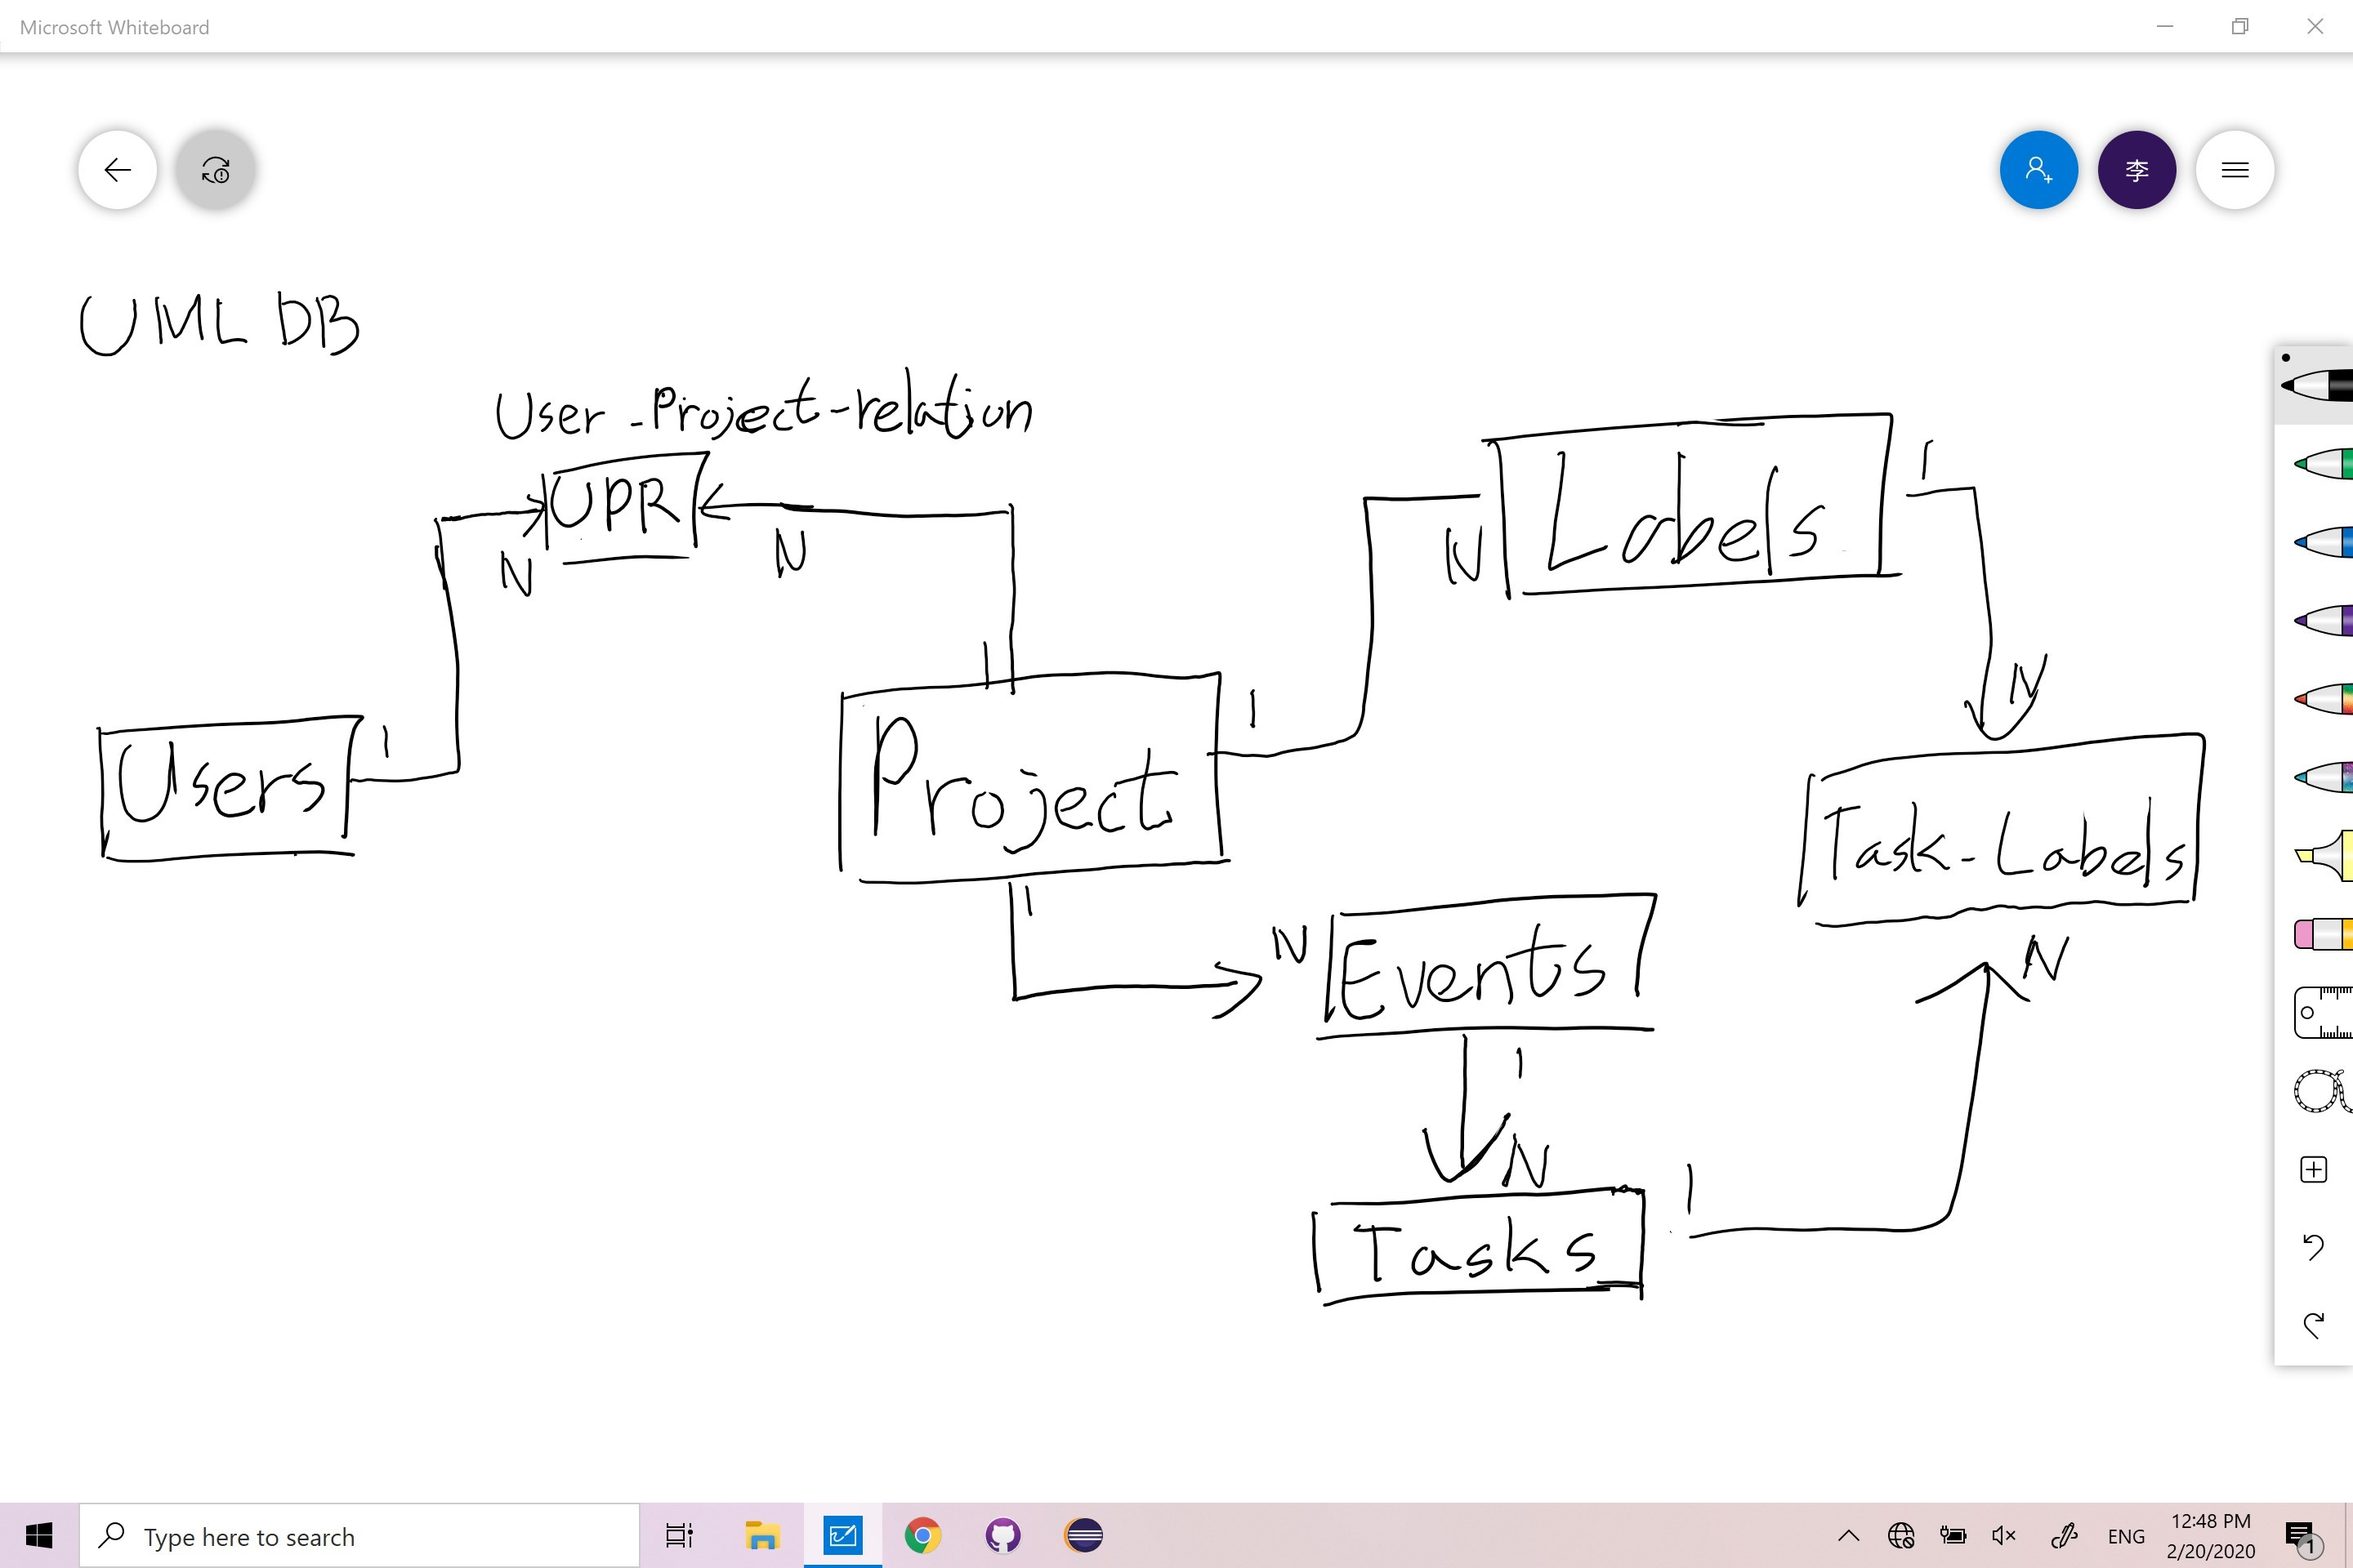
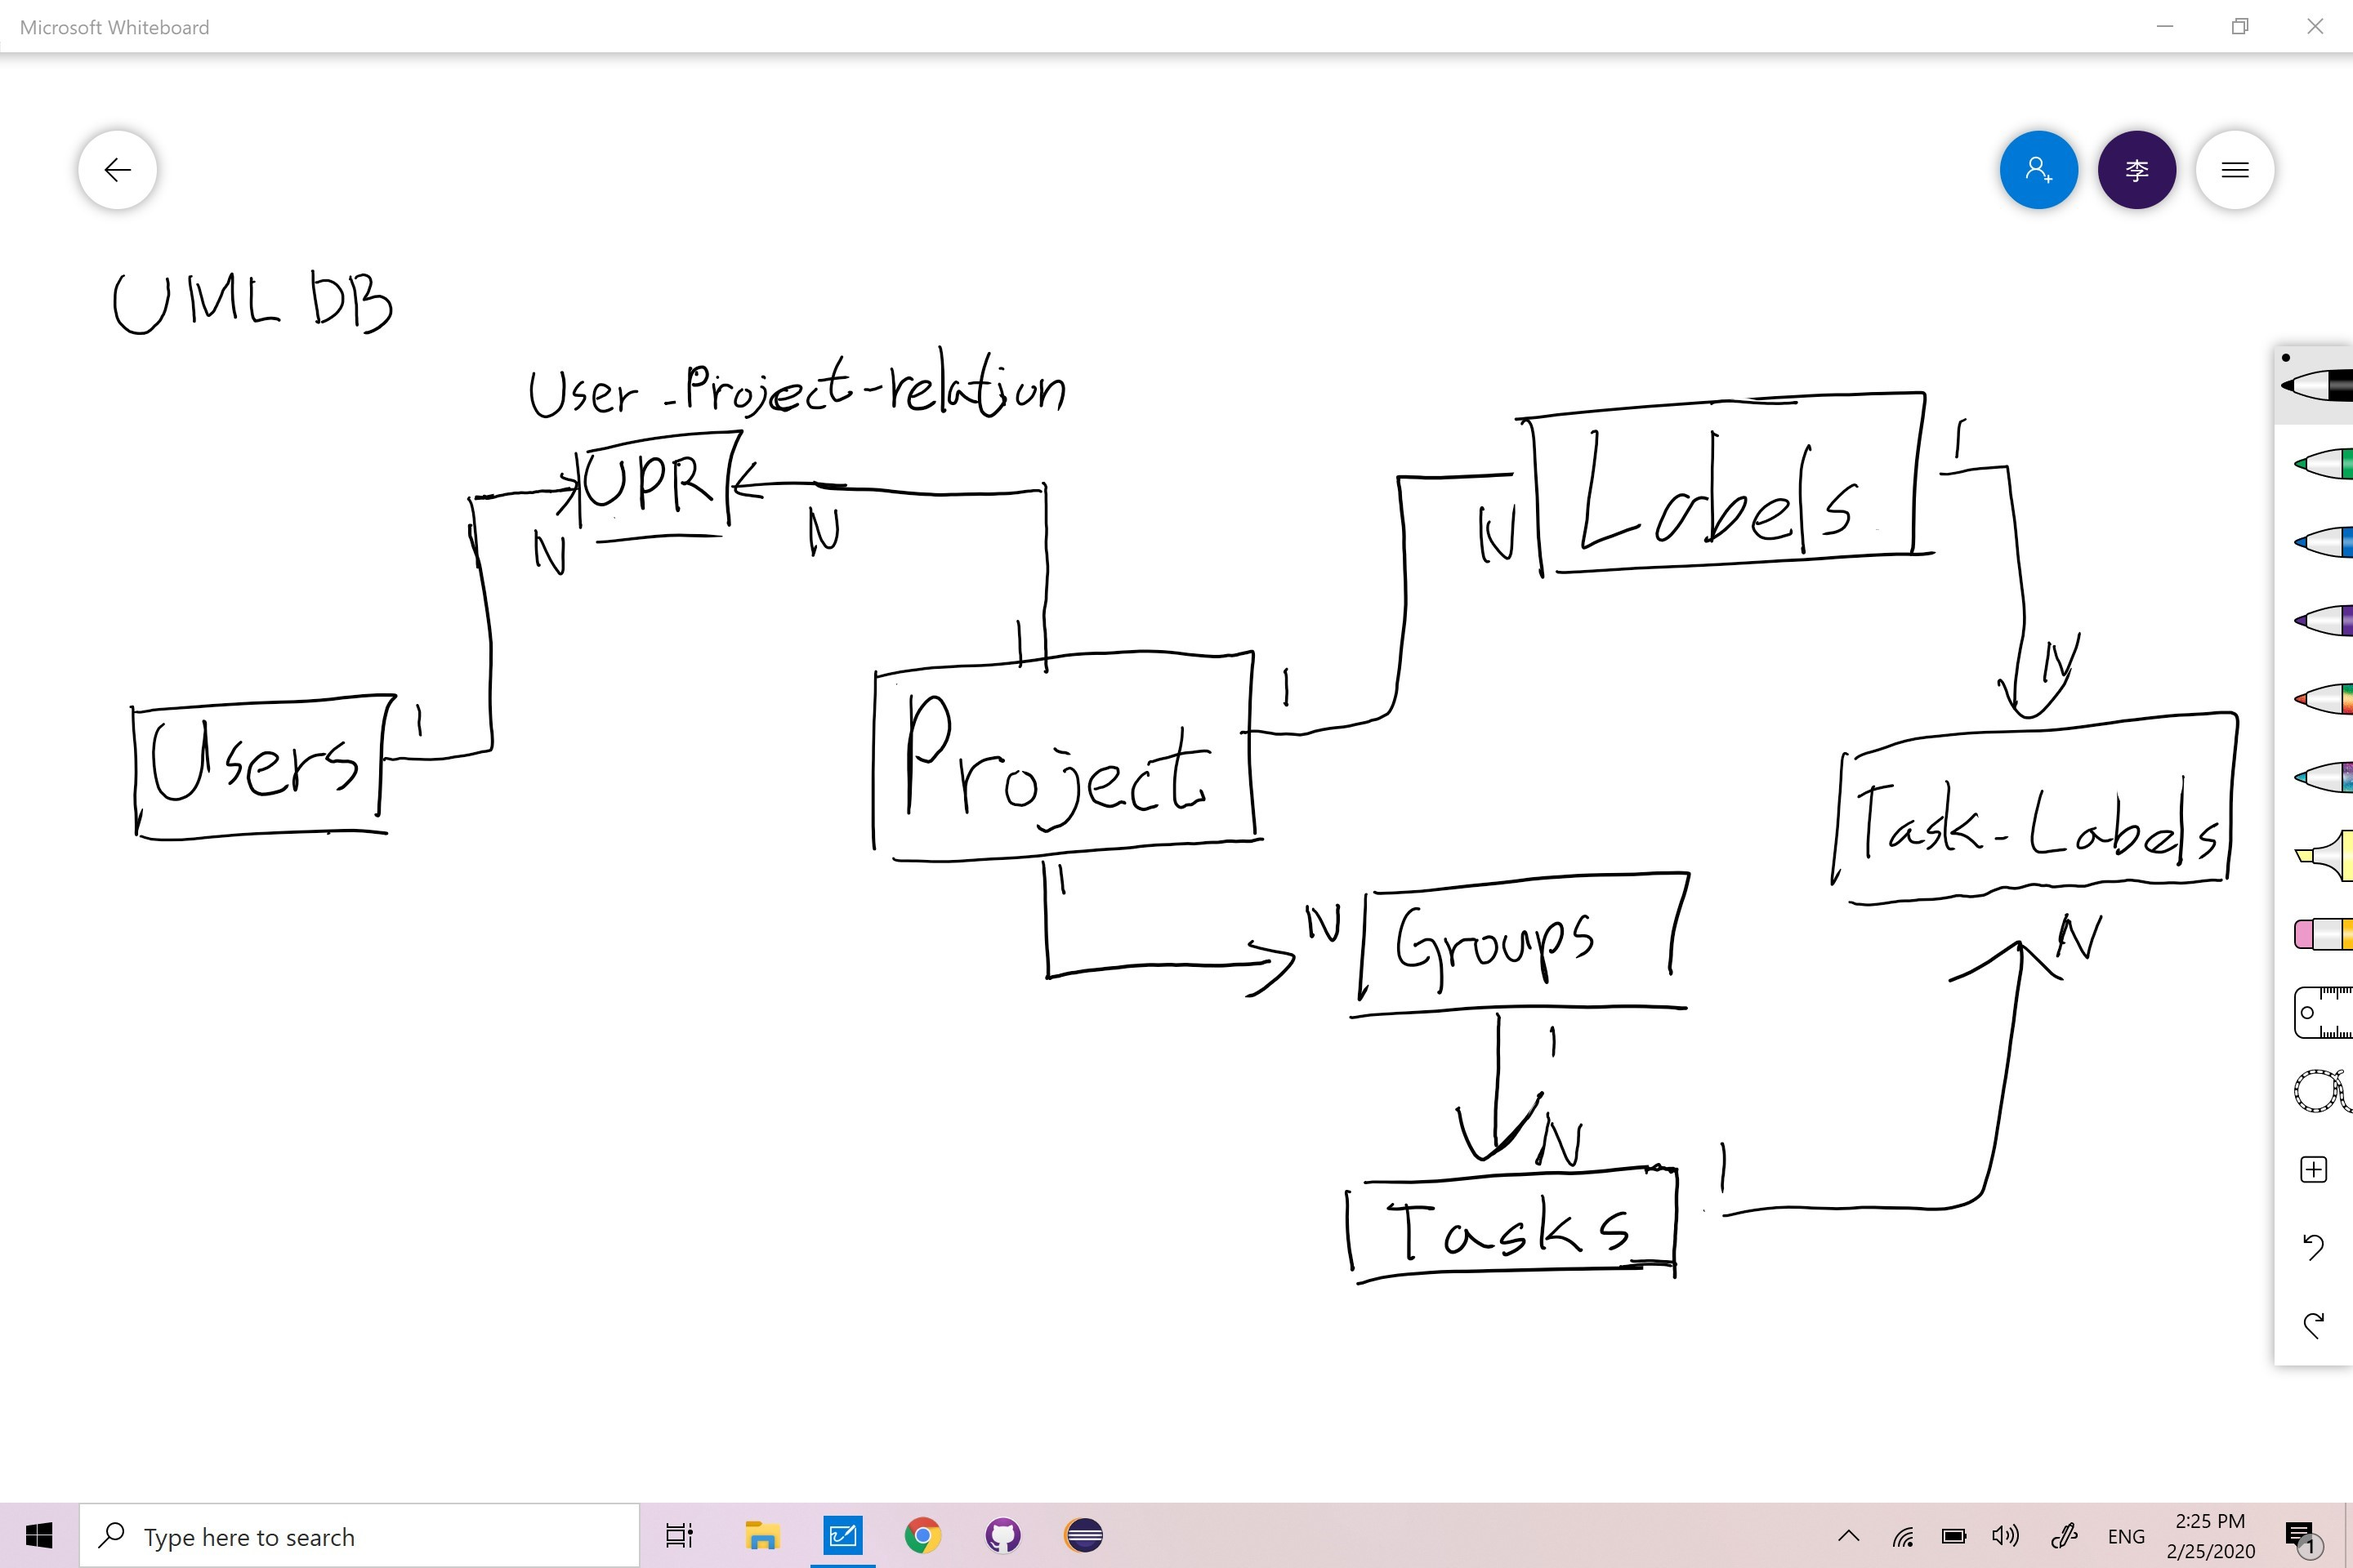
eventsからgroupsにテーブル名前変更、taskのpriorityのデータ型をintに変更し、enumの実装をモデルに追加

diff --git a/myapp/db/schema.rb b/myapp/db/schema.rb
@@ -12,13 +12,13 @@
 
 ActiveRecord::Schema.define(version: 2020_02_20_061320) do
 
-  create_table "events", options: "ENGINE=InnoDB DEFAULT CHARSET=utf8mb4", force: :cascade do |t|
+  create_table "groups", options: "ENGINE=InnoDB DEFAULT CHARSET=utf8mb4", force: :cascade do |t|
     t.string "name", null: false
     t.integer "sort_number", null: false
     t.bigint "project_id", null: false
     t.datetime "created_at", precision: 6, null: false
     t.datetime "updated_at", precision: 6, null: false
-    t.index ["project_id"], name: "index_events_on_project_id"
+    t.index ["project_id"], name: "index_groups_on_project_id"
   end
 
   create_table "labels", options: "ENGINE=InnoDB DEFAULT CHARSET=utf8mb4", force: :cascade do |t|
@@ -47,23 +47,23 @@ ActiveRecord::Schema.define(version: 2020_02_20_061320) do
 
   create_table "tasks", options: "ENGINE=InnoDB DEFAULT CHARSET=utf8mb4", force: :cascade do |t|
     t.string "name", null: false
-    t.string "priority", null: false
+    t.integer "priority", null: false
     t.datetime "end_period_at"
     t.string "creator_name"
     t.string "assignee_name"
     t.text "description"
+    t.bigint "group_id", null: false
+    t.bigint "label_id"
     t.datetime "created_at", precision: 6, null: false
     t.datetime "updated_at", precision: 6, null: false
-    t.bigint "event_id", null: false
-    t.bigint "label_id"
-    t.index ["event_id"], name: "index_tasks_on_event_id"
+    t.index ["group_id"], name: "index_tasks_on_group_id"
     t.index ["label_id"], name: "index_tasks_on_label_id"
   end
 
-  add_foreign_key "events", "projects"
+  add_foreign_key "groups", "projects"
   add_foreign_key "labels", "projects"
   add_foreign_key "task_labels", "labels"
   add_foreign_key "task_labels", "tasks"
-  add_foreign_key "tasks", "events"
+  add_foreign_key "tasks", "groups"
   add_foreign_key "tasks", "labels"
 end

diff --git a/myapp/db/migrate/20200219154848_create_tasks.rb b/myapp/db/migrate/20200219154848_create_tasks.rb
@@ -2,12 +2,12 @@ class CreateTasks < ActiveRecord::Migration[6.0]
   def change
     create_table :tasks do |t|
       t.string :name, null: false
-      t.string :priority, null: false
+      t.integer :priority, null: false
       t.datetime :end_period_at, null: true
       t.string :creator_name, null: true
       t.string :assignee_name, null: true
       t.text :description, null: true
-      t.references :event, foreign_key: true, null: false
+      t.references :group, foreign_key: true, null: false
       t.references :label, foreign_key: true
       t.timestamps
     end

diff --git a/myapp/db/migrate/20200219151525_create_groups.rb b/myapp/db/migrate/20200219151525_create_groups.rb
@@ -1,6 +1,6 @@
-class CreateEvents < ActiveRecord::Migration[6.0]
+class CreateGroups < ActiveRecord::Migration[6.0]
   def change
-    create_table :events do |t|
+    create_table :groups do |t|
       t.string :name, null: false
       t.integer :sort_number, null: false
       t.references :project, foreign_key: true, null: false

diff --git a/myapp/app/models/task.rb b/myapp/app/models/task.rb
@@ -1,2 +1,3 @@
 class Task < ApplicationRecord
+  enum priority: { HIGH: 0, MIDDLE: 1, LOW: 2 }
 end

diff --git a/myapp/app/models/group.rb b/myapp/app/models/group.rb
@@ -1,0 +1,2 @@
+class Group < ApplicationRecord
+end

diff --git a/myapp/README.md b/myapp/README.md
@@ -35,14 +35,14 @@ Mysql2
 ## DB設計
 
 - UML DB
-![UMLDB](https://user-images.githubusercontent.com/18366817/74903227-b4905800-53eb-11ea-86a6-65ac279c9538.jpg)
+![UMLDB](https://user-images.githubusercontent.com/18366817/75217971-082fe680-57dc-11ea-8d04-0241e5618aba.jpg)
 
 - DB詳細情報
 ```
 DROP TABLE IF EXISTS TASK_LABELS;
 DROP TABLE IF EXISTS TASKS;
 DROP TABLE IF EXISTS LABELS;
-DROP TABLE IF EXISTS EVENTS;
+DROP TABLE IF EXISTS GROUPS;
 DROP TABLE IF EXISTS USER_PROJECTS;
 DROP TABLE IF EXISTS USERS;
 DROP TABLE IF EXISTS PROJECTS;
@@ -83,11 +83,11 @@ CREATE TABLE USER_PROJECTS(
   FOREIGN KEY (user_id) REFERENCES USERS(id) ON DELETE CASCADE
 ) ENGINE=InnoDB DEFAULT CHARSET=utf8;
 
--- create EVENTS table
-CREATE TABLE EVENTS(
+-- create GROUPS table
+CREATE TABLE GROUPS(
   id INT NOT NULL AUTO_INCREMENT,
   name VARCHAR(255) NOT NULL,
-  sort_number INT NOT NULL, -- 画面でEVENTSの表示順番を決める
+  sort_number INT NOT NULL, -- 画面でGROUPSの表示順番を決める
   project_id INT NOT NULL,
   created_at DATETIME NOT NULL,
   updated_at DATETIME NOT NULL,
@@ -112,18 +112,18 @@ CREATE TABLE LABELS(
 CREATE TABLE TASKS(
   id INT NOT NULL AUTO_INCREMENT,
   name VARCHAR(255) NOT NULL,
-  priority CHAR(10) NOT NULL, -- Maganement as ENUM(HIGH, MEDIUM, LOW)
+  priority INT NOT NULL, -- Maganement as ENUM(HIGH: 1, MIDDLE: 2, LOW: 3)
   end_period_at DATETIME NULL,
-  event_id INT NOT NULL,
-  creator_name VARCHAR(255) NOT NULL,
-  assignee_name VARCHAR(255) NOT NULL,
-  label_id INT NOT NULL,
+  group_id INT NOT NULL,
+  creator_name VARCHAR(255) NULL,
+  assignee_name VARCHAR(255) NULL,
+  label_id INT NULL,
   description TEXT NULL,
   created_at DATETIME NOT NULL,
   updated_at DATETIME NOT NULL,
   PRIMARY KEY (id),
   UNIQUE(id),
-  FOREIGN KEY (event_id) REFERENCES EVENTS (id) ON DELETE RESTRICT ON UPDATE CASCADE,
+  FOREIGN KEY (group_id) REFERENCES GROUPS (id) ON DELETE RESTRICT ON UPDATE CASCADE,
   FOREIGN KEY (label_id) REFERENCES LABELS (id) ON DELETE RESTRICT ON UPDATE CASCADE
 ) ENGINE=InnoDB DEFAULT CHARSET=utf8;
 
@@ -137,4 +137,5 @@ CREATE TABLE TASK_LABELS(
   FOREIGN KEY (task_id) REFERENCES TASKS(id) ON DELETE CASCADE,
   FOREIGN KEY (label_id) REFERENCES LABELS(id) ON DELETE CASCADE
 ) ENGINE=InnoDB DEFAULT CHARSET=utf8;
+
 ```
